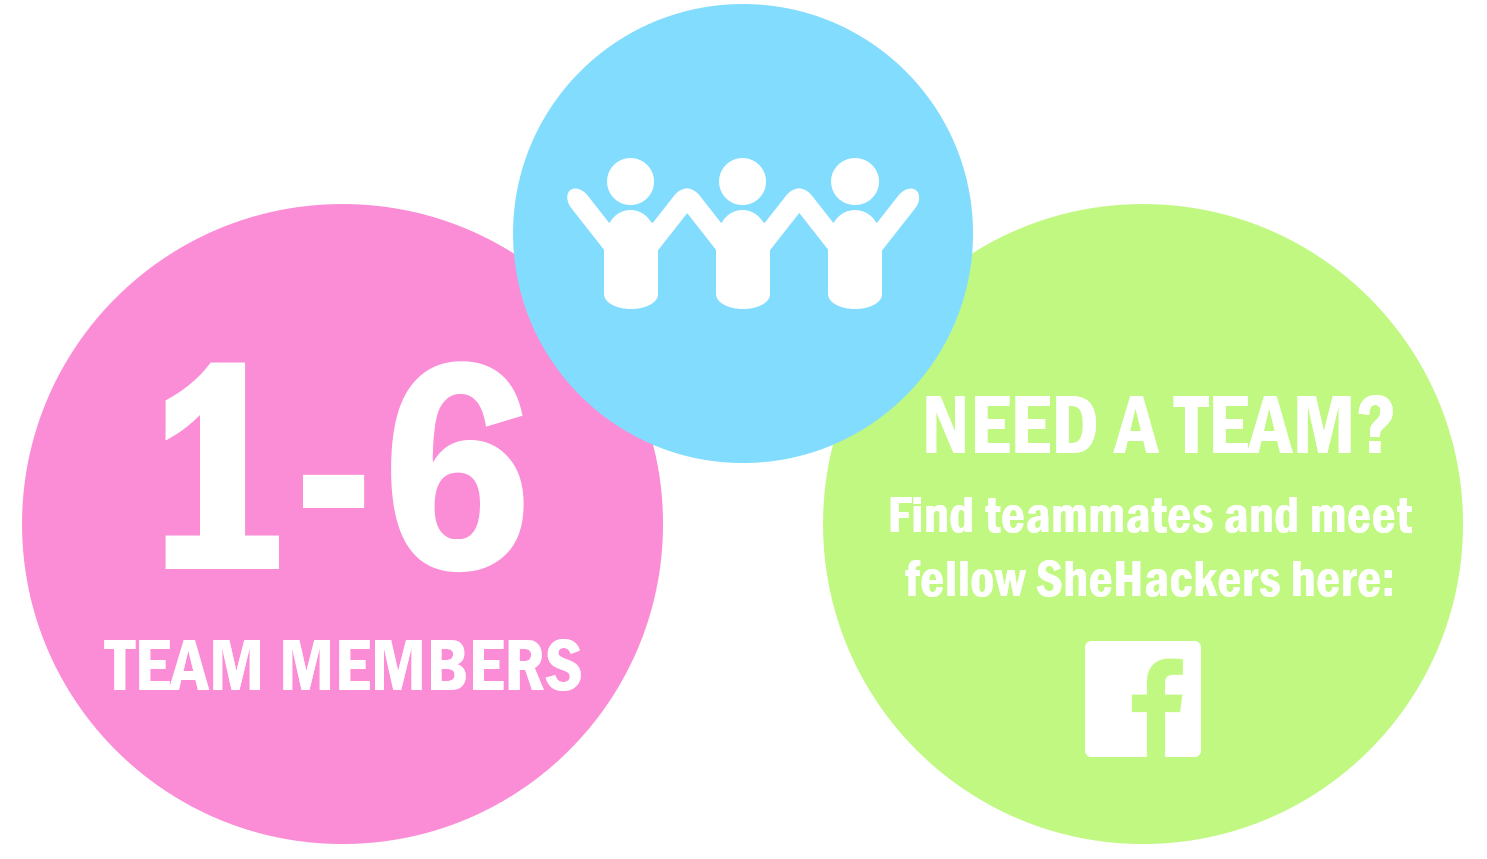
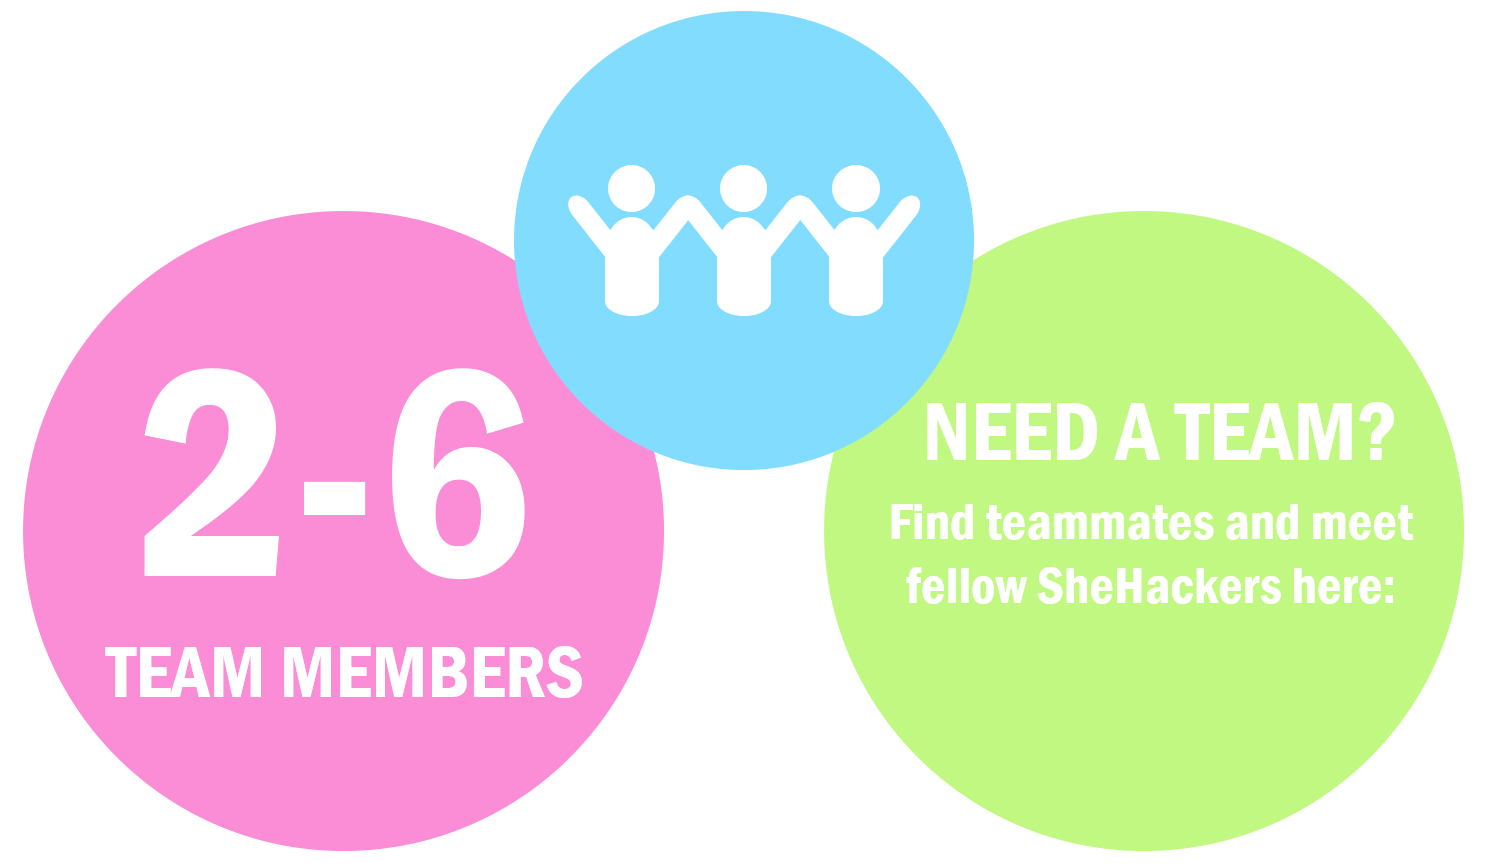
minor graphics fixes

diff --git a/logistics.html b/logistics.html
@@ -72,7 +72,7 @@
 
 
 <div id="schedule">
-  <h1 style="padding-left: 10%;padding-bottom:30px;">SCHEDULE</h1>
+  <h1 style="padding-left: 10%;padding-bottom:30px;">TENTATIVE SCHEDULE</h1>
   <div class="daytab">
     <button class="tablinks" onclick="openDay(event, 'Friday')" id="defaultOpen">Friday</button>
     <button class="tablinks" onclick="openDay(event, 'Saturday')">Saturday</button>
@@ -92,21 +92,17 @@
   </div>
 </div>
 
+<hr class =“style1” style="padding-top:20px;padding-bottom:20px;">
 
 <div id="teams">
-  <h1 style="padding-left: 10%;padding-bottom:20px;">TEAMS</h1>
-<!--   <div class="row">
-    <h1 style="font-family: 'Barlow'; font-size: 2em;padding-left: 10%;">How many members can my team have?</h1>
-    <h2 style="font-size: 1em;padding-left: 10%;">How many members can my team have?</h2>
-  </div>
-  <div class="row">
-    <h1 style="font-family: 'Barlow'; font-size: 2em;padding-left: 10%;">How can I find teammates?</h1>
-  </div> -->
-  <div>
-    <img src="img/team.png" width=60% style="display:block;margin:auto;" alt="team" usemap="#team">
-    <map name="team">
+  <h1 style="padding-left:10%;padding-bottom:20px;">TEAMS</h1>
+  <div style="display: inline-block;position: relative;">
+    <img src="img/team.png" width=60% style="display:block;margin:auto;" alt="team">
+    <a href="https://www.facebook.com/groups/2114116722143511/">
+    <img src="img/fb-logo.png" style="position: absolute;width:5%;left:63.5%;bottom:10%"></a>
+<!--     <map name="team">
       <area shape="rect" coords="652,384,720,453" alt="fbLink" href="https://www.facebook.com/groups/2114116722143511/">
-    </map>
+    </map> -->
   </div>
 </div>
 
